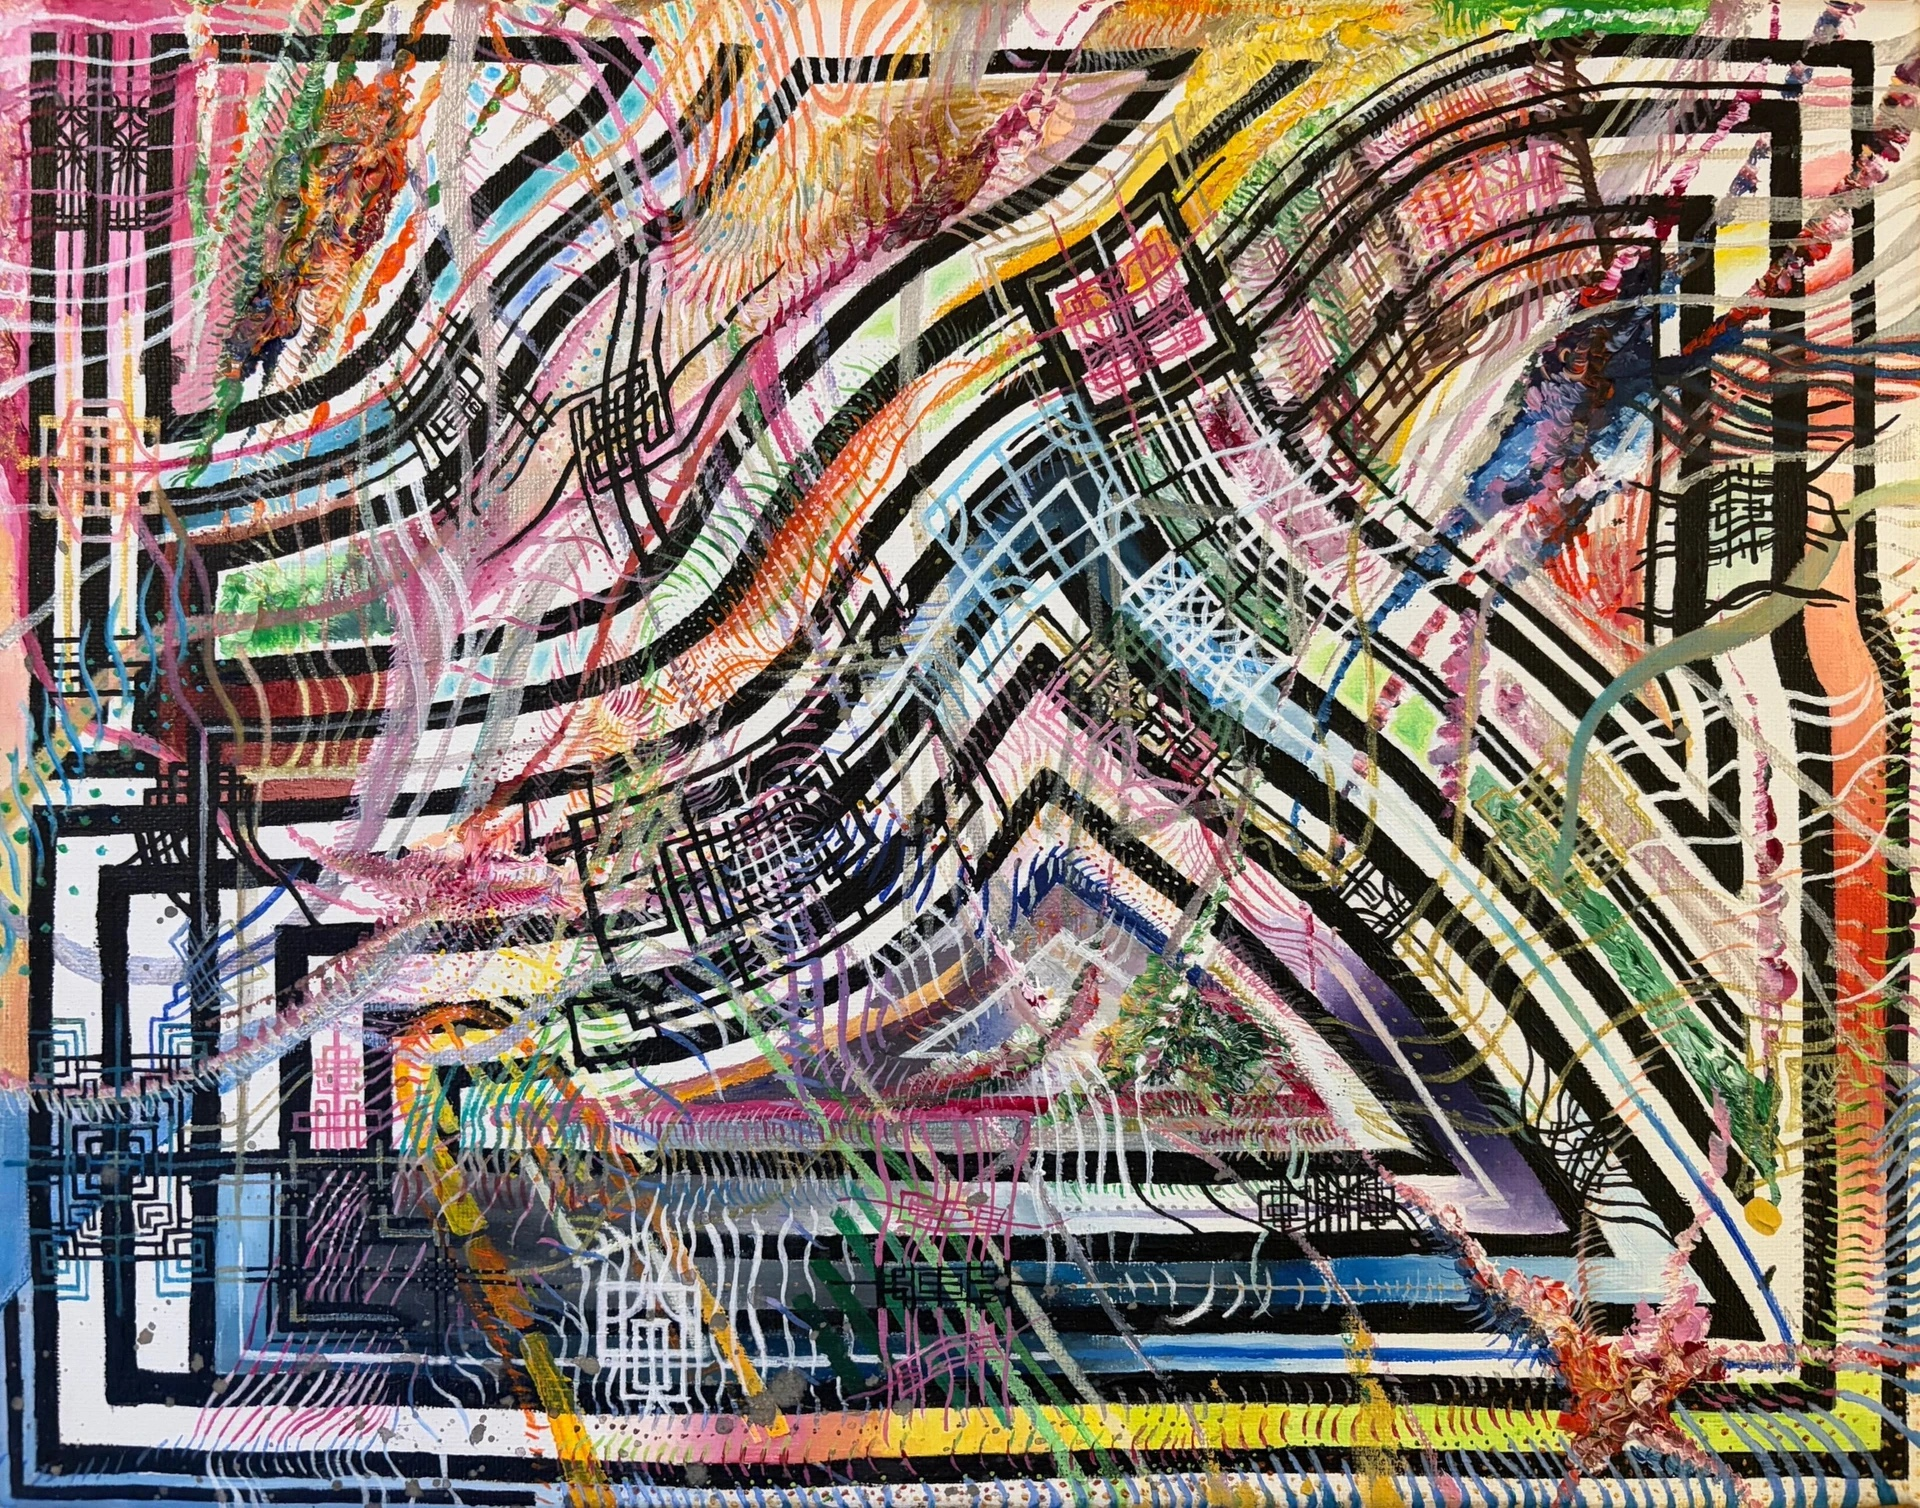
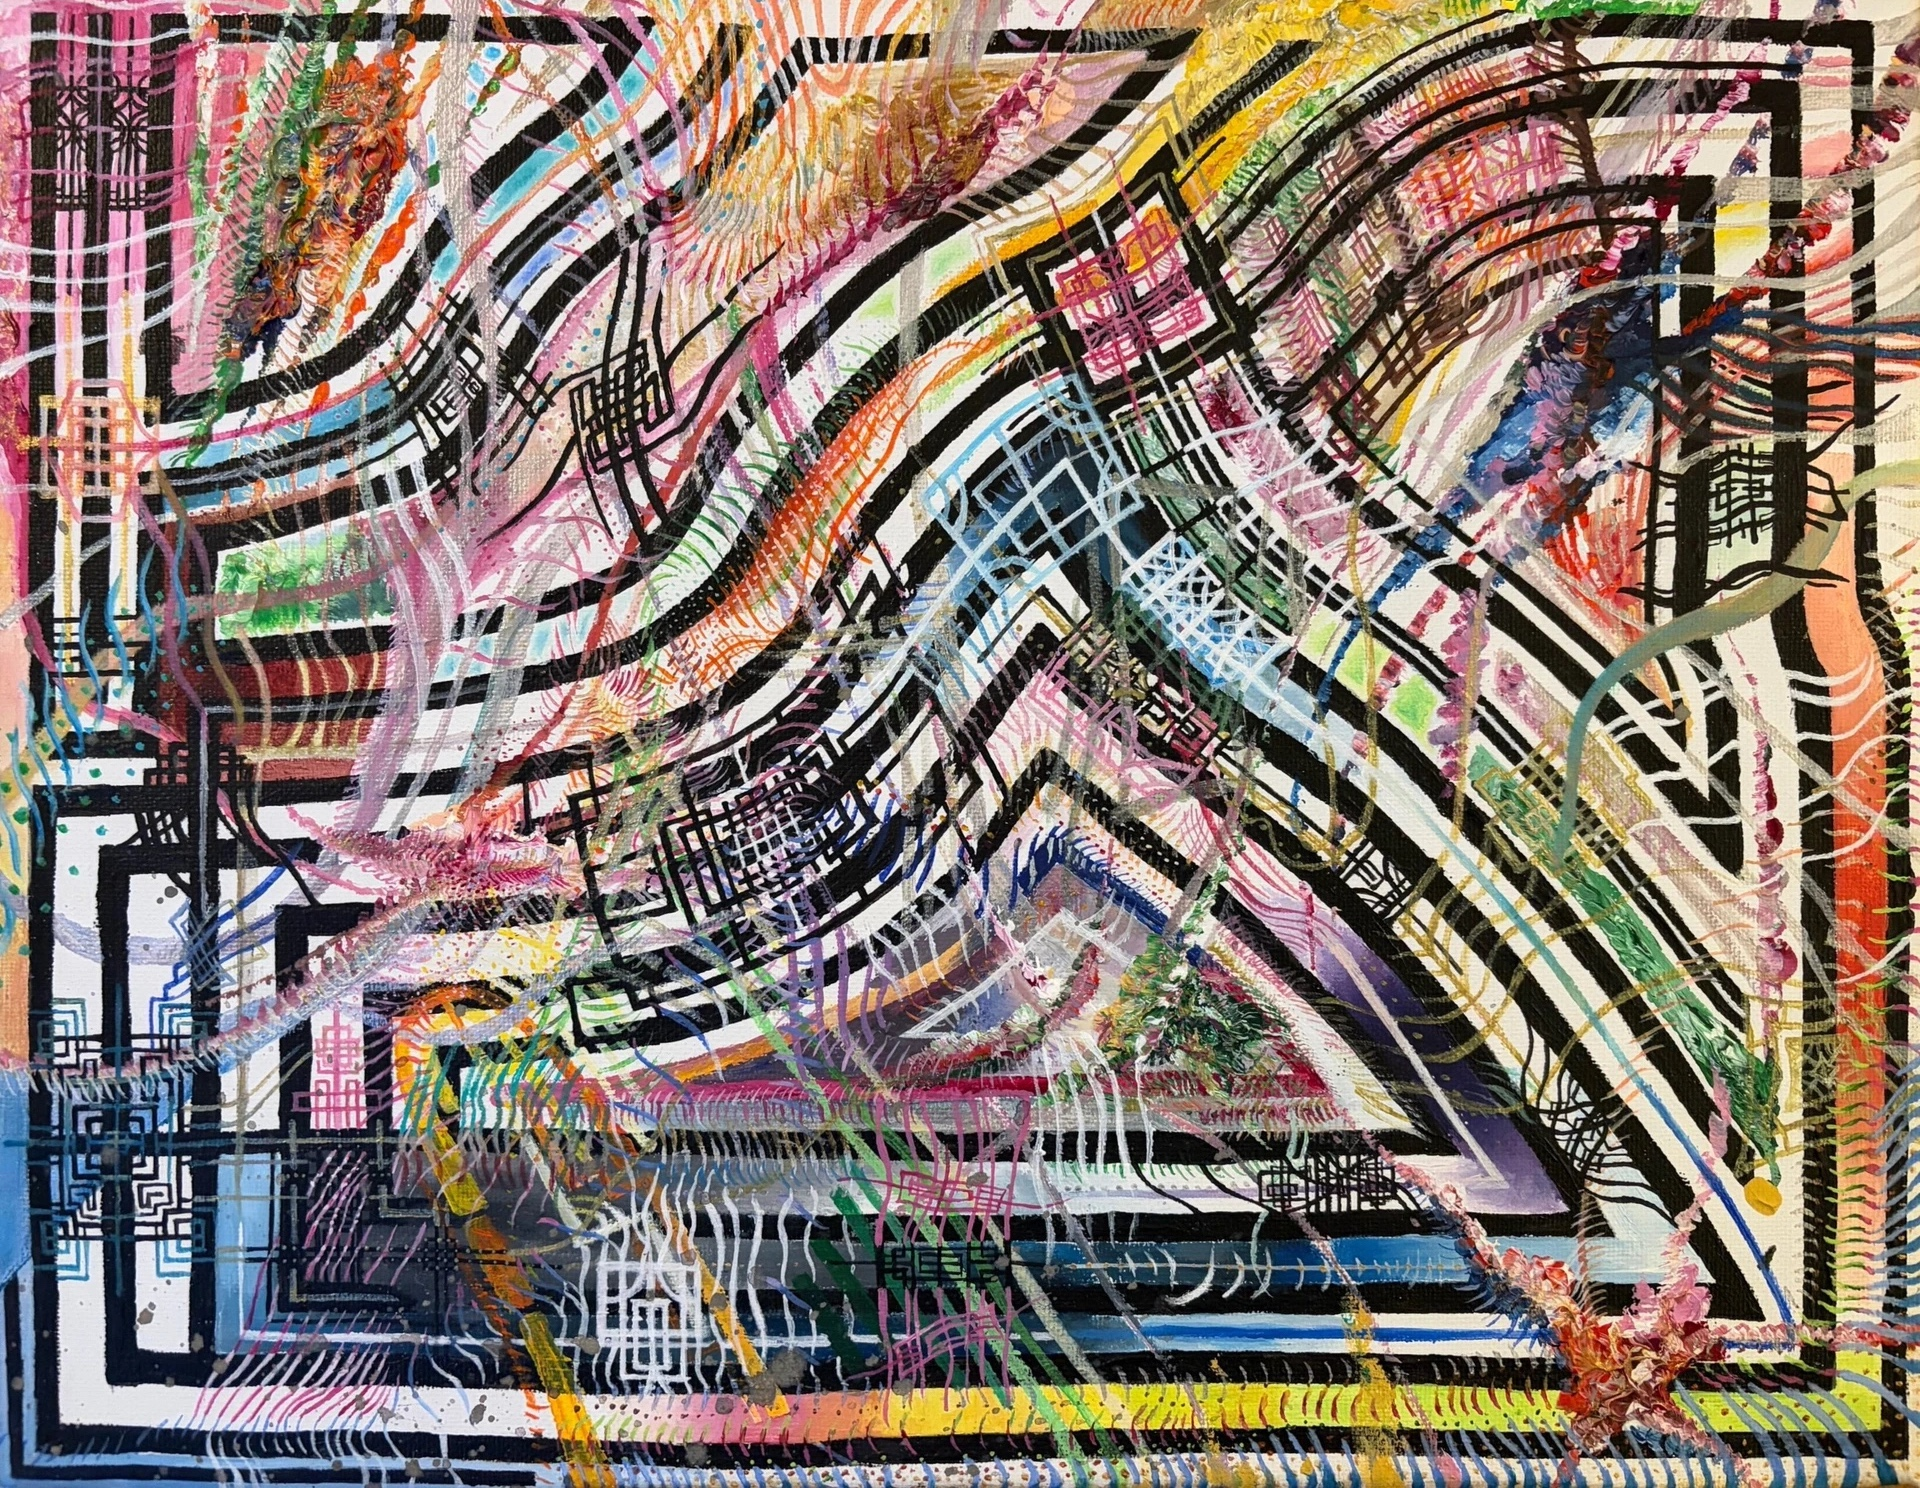
Gallery: crop 태극기 top (20px), warmer gold on Think Outside, scroll cue → info column

diff --git a/css/museum.css b/css/museum.css
@@ -1129,16 +1129,17 @@ body.page-gallery .masthead { position: static; flex: none; z-index: 50; }
 
 /* scroll cue on the first screen */
 .gv__cue {
-  position: absolute; left: 50%; bottom: 1.5rem; transform: translateX(-50%);
-  display: flex; flex-direction: column; align-items: center; gap: 0.45rem;
+  position: absolute; left: clamp(1.6rem, 3.5vw, 3.6rem); bottom: clamp(1.4rem, 3vh, 2rem);
+  display: flex; flex-direction: column; align-items: flex-start; gap: 0.4rem;
   font-family: var(--mono); font-size: 0.62rem; letter-spacing: 0.12em; color: var(--muted);
-  pointer-events: none;
+  pointer-events: none; text-align: left;
 }
 @media (prefers-reduced-motion: no-preference) { .gv__cue svg { animation: cueBob 1.7s ease-in-out infinite; } }
 @keyframes cueBob { 0%,100% { transform: translateY(0); } 50% { transform: translateY(5px); } }
 
 /* right — info + index (identical per section → reads as persistent while paintings scroll) */
 .gv__panel {
+  position: relative;
   display: flex; flex-direction: column; justify-content: center;
   padding: clamp(2rem, 4vw, 4rem) clamp(1.6rem, 3.5vw, 3.6rem);
   border-left: 1px solid var(--line); background: var(--paper); min-width: 0;

diff --git a/index.html b/index.html
@@ -12,7 +12,7 @@
   <link rel="preconnect" href="https://fonts.googleapis.com">
   <link rel="preconnect" href="https://fonts.gstatic.com" crossorigin>
   <link href="https://fonts.googleapis.com/css2?family=Inter:wght@400;500;600;700;800&family=Space+Grotesk:wght@400;500;600;700&family=Space+Mono:wght@400;700&display=swap" rel="stylesheet">
-  <link rel="stylesheet" href="css/museum.css?v=25">
+  <link rel="stylesheet" href="css/museum.css?v=32">
 </head>
 <body class="page-gallery">
   <header class="masthead">
@@ -35,7 +35,7 @@
     </section>
   </main>
 
-  <script src="js/artworks.js?v=25"></script>
-  <script src="js/site.js?v=25"></script>
+  <script src="js/artworks.js?v=32"></script>
+  <script src="js/site.js?v=32"></script>
 </body>
 </html>

diff --git a/js/artworks.js b/js/artworks.js
@@ -24,13 +24,13 @@ window.ARTWORKS = [
     medium: "Acrylic on canvas", size: "30 × 40 in (76 × 102 cm)", scale: 1,
     border: { mat: "#ffffff", matW: 22, frame: "rgba(112,18,20,0.85)", frameW: 10 }, note: "" },
 
-  { img: "assets/works/flag.jpg", w: 1920, h: 1508,
+  { img: "assets/works/flag.jpg", w: 1920, h: 1488,
     title: "태극기", year: "n.d.",
     medium: "Acrylic on canvas", size: "24 × 30 in (61 × 76 cm)", scale: 0.72,
-    border: { frame: "#111111", frameW: 10, frameTopW: 6 }, note: "" },
+    border: { frame: "#111111", frameW: 10 }, note: "" },
 
   { img: "assets/works/outside_boxes.jpg", w: 1920, h: 1433,
     title: "Think Outside the Boxes", year: "n.d.",
     medium: "Acrylic on canvas", size: "18 × 24 in (46 × 61 cm)", scale: 0.72,
-    border: { mat: "#ffffff", matW: 22, frame: "rgba(138,106,14,0.5)", frameW: 10 }, note: "" }
+    border: { mat: "#ffffff", matW: 22, frame: "rgba(196,156,48,0.72)", frameW: 10 }, note: "" }
 ];

diff --git a/contact.html b/contact.html
@@ -8,7 +8,7 @@
   <link rel="preconnect" href="https://fonts.googleapis.com">
   <link rel="preconnect" href="https://fonts.gstatic.com" crossorigin>
   <link href="https://fonts.googleapis.com/css2?family=Inter:wght@400;500;600;700;800&family=Space+Grotesk:wght@400;500;600;700&family=Space+Mono:wght@400;700&display=swap" rel="stylesheet">
-  <link rel="stylesheet" href="css/museum.css?v=25">
+  <link rel="stylesheet" href="css/museum.css?v=32">
 </head>
 <body>
   <header class="masthead">
@@ -72,6 +72,6 @@
     </div>
   </footer>
 
-  <script src="js/site.js?v=25"></script>
+  <script src="js/site.js?v=32"></script>
 </body>
 </html>

diff --git a/cv.html b/cv.html
@@ -8,7 +8,7 @@
   <link rel="preconnect" href="https://fonts.googleapis.com">
   <link rel="preconnect" href="https://fonts.gstatic.com" crossorigin>
   <link href="https://fonts.googleapis.com/css2?family=Inter:wght@400;500;600;700;800&family=Space+Grotesk:wght@400;500;600;700&family=Space+Mono:wght@400;700&display=swap" rel="stylesheet">
-  <link rel="stylesheet" href="css/museum.css?v=25">
+  <link rel="stylesheet" href="css/museum.css?v=32">
 </head>
 <body>
   <header class="masthead">
@@ -140,6 +140,6 @@
     </div>
   </footer>
 
-  <script src="js/site.js?v=25"></script>
+  <script src="js/site.js?v=32"></script>
 </body>
 </html>

diff --git a/statement.html b/statement.html
@@ -8,7 +8,7 @@
   <link rel="preconnect" href="https://fonts.googleapis.com">
   <link rel="preconnect" href="https://fonts.gstatic.com" crossorigin>
   <link href="https://fonts.googleapis.com/css2?family=Inter:wght@400;500;600;700;800&family=Space+Grotesk:wght@400;500;600;700&family=Space+Mono:wght@400;700&display=swap" rel="stylesheet">
-  <link rel="stylesheet" href="css/museum.css?v=25">
+  <link rel="stylesheet" href="css/museum.css?v=32">
 </head>
 <body>
   <header class="masthead">
@@ -62,6 +62,6 @@
     </div>
   </footer>
 
-  <script src="js/site.js?v=25"></script>
+  <script src="js/site.js?v=32"></script>
 </body>
 </html>

diff --git a/js/site.js b/js/site.js
@@ -242,7 +242,6 @@
           '<div class="gv__stage">' +
             '<img class="gv__art" decoding="async" alt="' + esc(w.title) + '"' +
               ' data-title="' + esc(w.title) + '" data-sub="' + esc(sub) + '">' +
-            (i < n - 1 ? '<div class="gv__cue">' + cue + (i === 0 ? "<span>scroll</span>" : "") + "</div>" : "") +
           "</div>" +
           '<div class="gv__panel">' +
             '<p class="gv__role">Painter + Creative Technologist</p>' +
@@ -250,6 +249,7 @@
             '<h2 class="gv__title">' + title + "</h2>" +
             '<p class="gv__meta">' + esc(meta) + "</p>" +
             '<nav class="gv__index">' + indexHtml(i) + "</nav>" +
+            (i < n - 1 ? '<div class="gv__cue">' + cue + (i === 0 ? "<span>scroll</span>" : "") + "</div>" : "") +
           "</div>" +
         "</section>";
     }).join("");